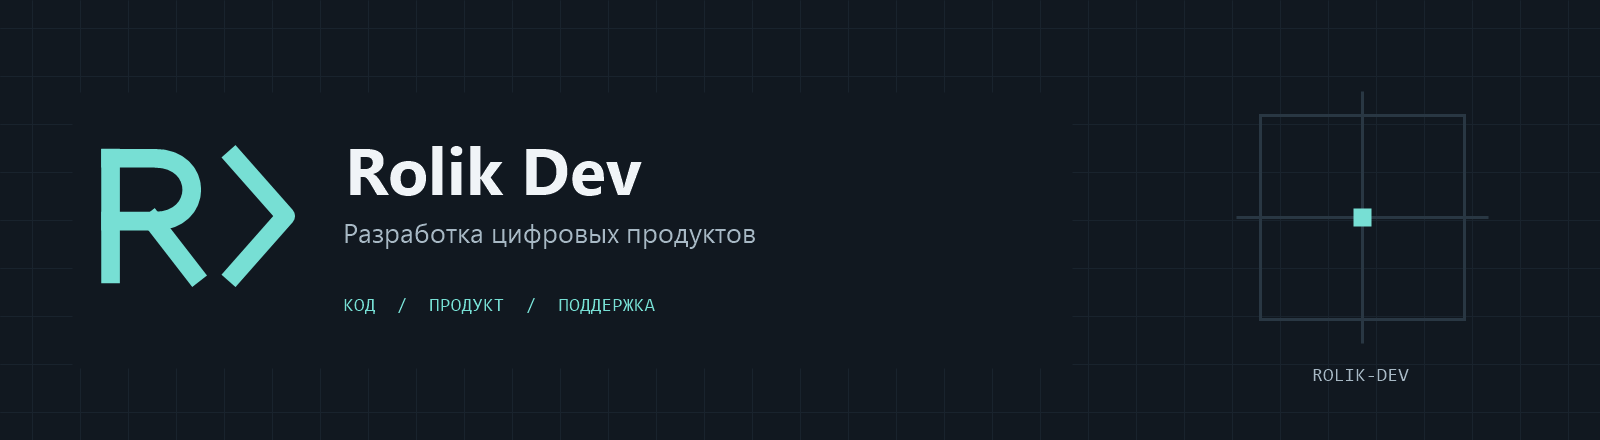
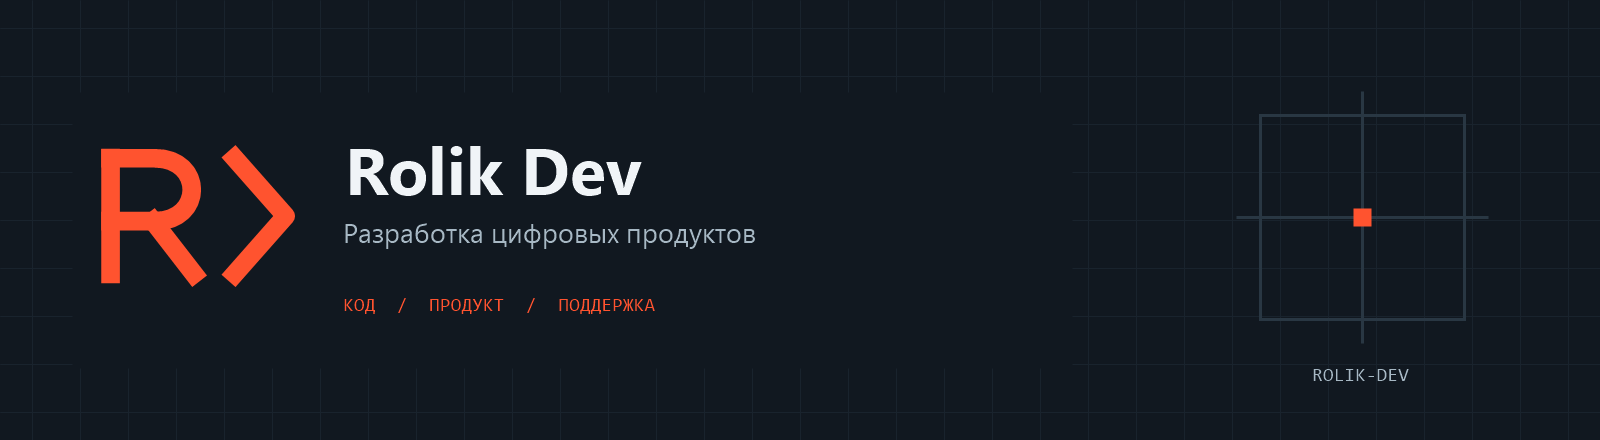
Согласовать акцент баннера с фирменным логотипом

diff --git a/README.md b/README.md
@@ -4,7 +4,6 @@
 
 - [`profile/README.md`](profile/README.md) — текст профиля организации.
 - [`assets/banner.png`](assets/banner.png) — баннер профиля.
-- [`assets/avatar.png`](assets/avatar.png) — подготовленный аватар организации, 512 × 512.
 
 Все файлы этого репозитория доступны публично. Здесь размещаются только материалы оформления: без исходного кода продуктов, внутренних ссылок, контактов и конфигурации сервисов.
 
@@ -12,4 +11,4 @@
 
 ## Обновление оформления
 
-Текст страницы меняется в `profile/README.md`. Баннер хранится в `assets/banner.png`. Аватар загружается отдельно в настройках профиля организации: добавление файла в этот репозиторий не меняет текущую картинку профиля.
+Текст страницы меняется в `profile/README.md`. Баннер хранится в `assets/banner.png`. Существующий фирменный аватар организации сохраняется.
